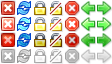
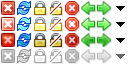
Added larger drop marker for nav buttons.

diff --git a/chrome/skin/sidebar.css b/chrome/skin/sidebar.css
@@ -127,6 +127,26 @@ separator {
   position: absolute; /* Required to avoid transparency issues - bug 5 */
 }
 
+/* Drop markers */
+
+.toolbarbutton-menubutton-dropmarker {
+  list-style-image: url("chrome://tabsidebar/skin/Icons.png");
+  -moz-image-region: rect(6px, 125px, 11px, 116px);
+}
+
+.toolbarbutton-menubutton-dropmarker:hover {
+  -moz-image-region: rect(22px, 125px, 27px, 116px);
+}
+
+.toolbarbutton-menubutton-dropmarker:hover:active {
+  -moz-image-region: rect(38px, 125px, 43px, 116px);
+}
+
+.toolbarbutton-menubutton-dropmarker[disabled="true"] {
+  list-style-image: url("chrome://tabsidebar/skin/Icons.png") !important;
+  -moz-image-region: rect(54px, 125px, 59px, 116px) !important;
+}
+
 /* Back button */
 .tbs-back {
   list-style-image: inherit;
